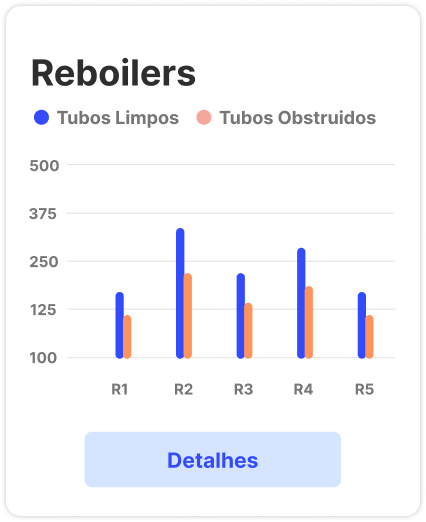
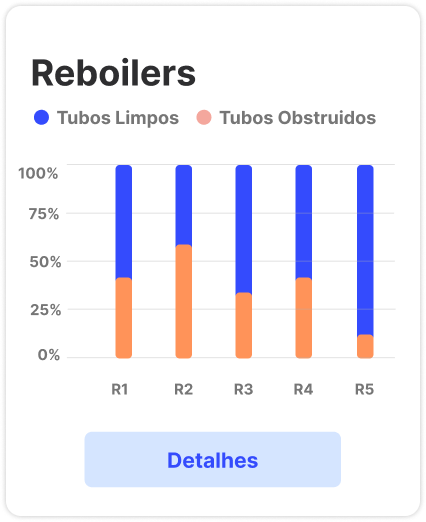
docs: Concluindo Graficos sugeridos

diff --git a/documentacao/docs/sprint-3/Documentação/Graficos_sugeridos.md b/documentacao/docs/sprint-3/Documentação/Graficos_sugeridos.md
@@ -1,0 +1,47 @@
+---
+sidebar_position: 3
+custom_edit_url: null
+title: "API e Gráficos Sugeridos"
+---
+
+# Documentação da API e Sugestões de Gráficos
+
+## Descrição dos Dados Disponíveis na API
+
+### 1. Informações Gerais
+A API fornece acesso aos seguintes dados:
+- **Dados sobre a Limpeza dos Reboilers**: Informações detalhadas sobre a limpeza dos reboilers, incluindo a data da limpeza, a quantidade de tubos limpos, e a quantidade de tubos obstruídos.
+
+### 2. Endpoints Disponíveis
+- **GET /all_reboilers**: Retorna uma lista com os resultados da limpeza de todos os reboilers.
+- **GET /reboilerX/monthly**: Retorna uma lista com os resultados das limpezas do último mês para um reboiler específico.
+- **GET /reboilerX/last_clean**: Retorna os detalhes da última limpeza de um reboiler específico.
+
+## Sugestões de Gráficos para a Plataforma de BI
+
+### 1. Gráfico de Visualização de Todos os Reboilers
+**Descrição**: Um gráfico de barras que mostra a porcentagem de tubos limpos e obstruídos na última limpeza de todos os reboilers registrados.  
+**Utilidade**: Ajuda a identificar a eficiência geral da limpeza dos reboilers.  
+**Exemplo**:
+
+![Gráfico de Visualização de Todos os Reboilers](../../../static/img/Graficos/GraficoTR.png)
+
+### 2. Gráfico de Visualização Mensal
+**Descrição**: Um gráfico de colunas e linhas que mostra o desempenho das limpezas no último mês.  
+**Utilidade**: Permite monitorar mudanças graduais no processo de limpeza que podem não ser percebidas na análise de limpezas individuais.  
+**Exemplo**:
+
+![Gráfico de Visualização Mensal](../../../static/img/Graficos/GraficoM.png)
+
+### 3. Gráfico da Última Limpeza
+**Descrição**: Um gráfico de pizza que mostra a quantidade de tubos limpos e obstruídos na última limpeza.  
+**Utilidade**: Facilita a visualização das informações de uma limpeza específica.  
+**Exemplo**:
+
+![Gráfico da Última Limpeza](../../../static/img/Graficos/GraficoUL.png)
+
+## Considerações Finais
+Esta documentação visa fornecer uma visão clara e detalhada dos dados disponíveis na API, bem como sugestões de gráficos para facilitar a análise e visualização dos dados na plataforma de BI do cliente.
+
+
+
